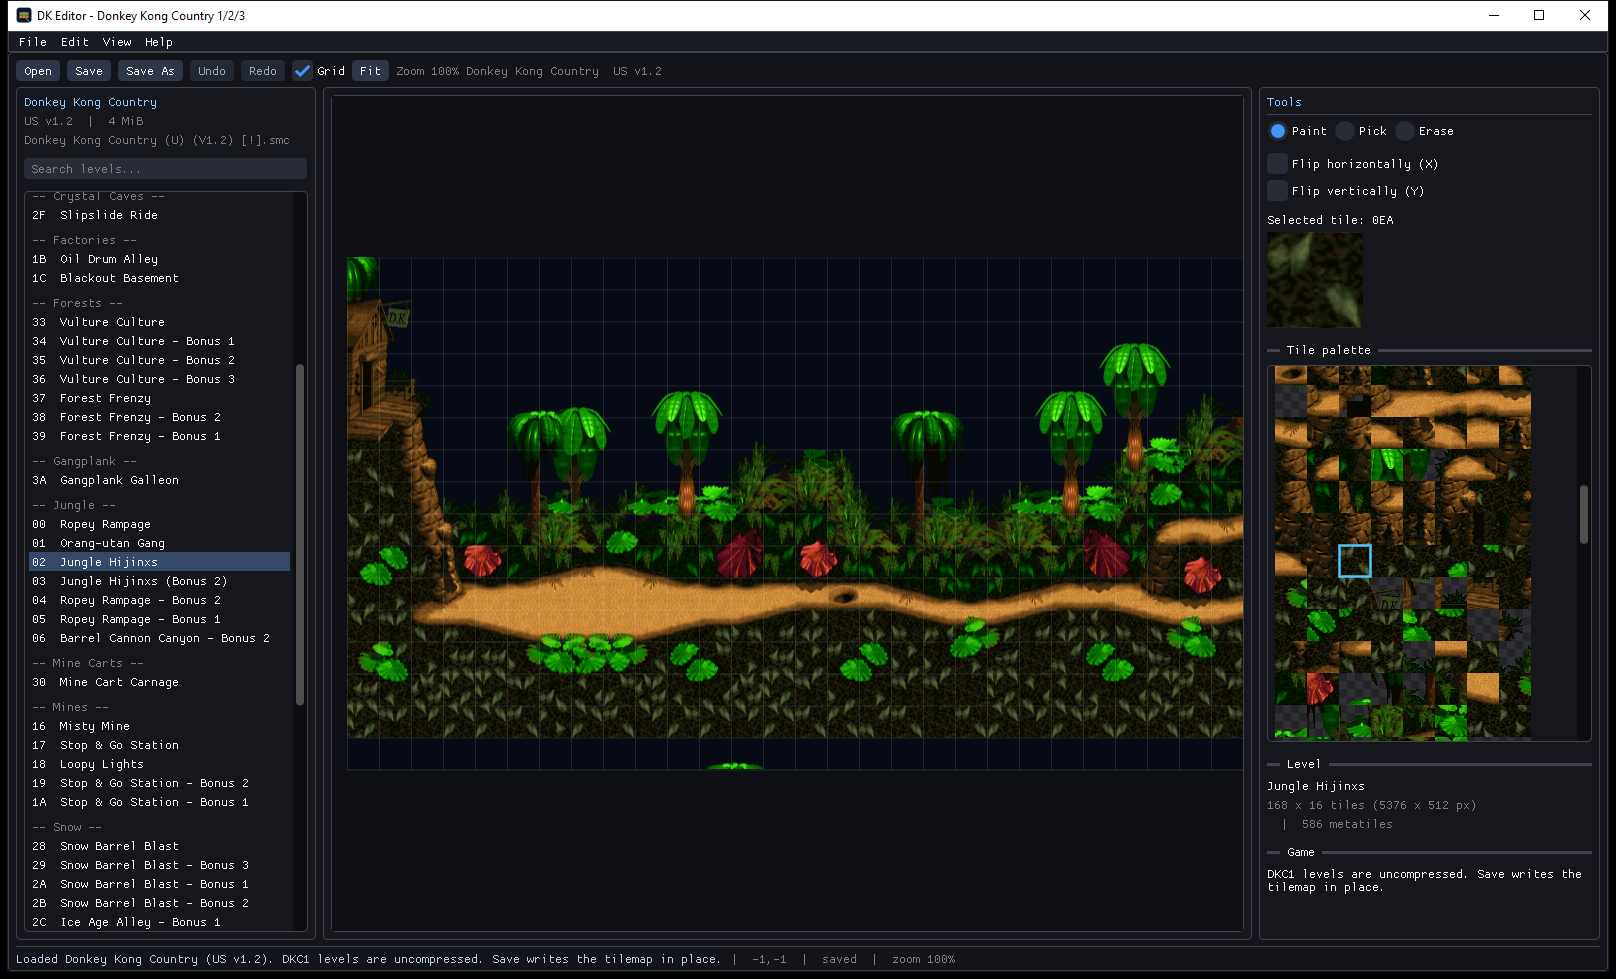
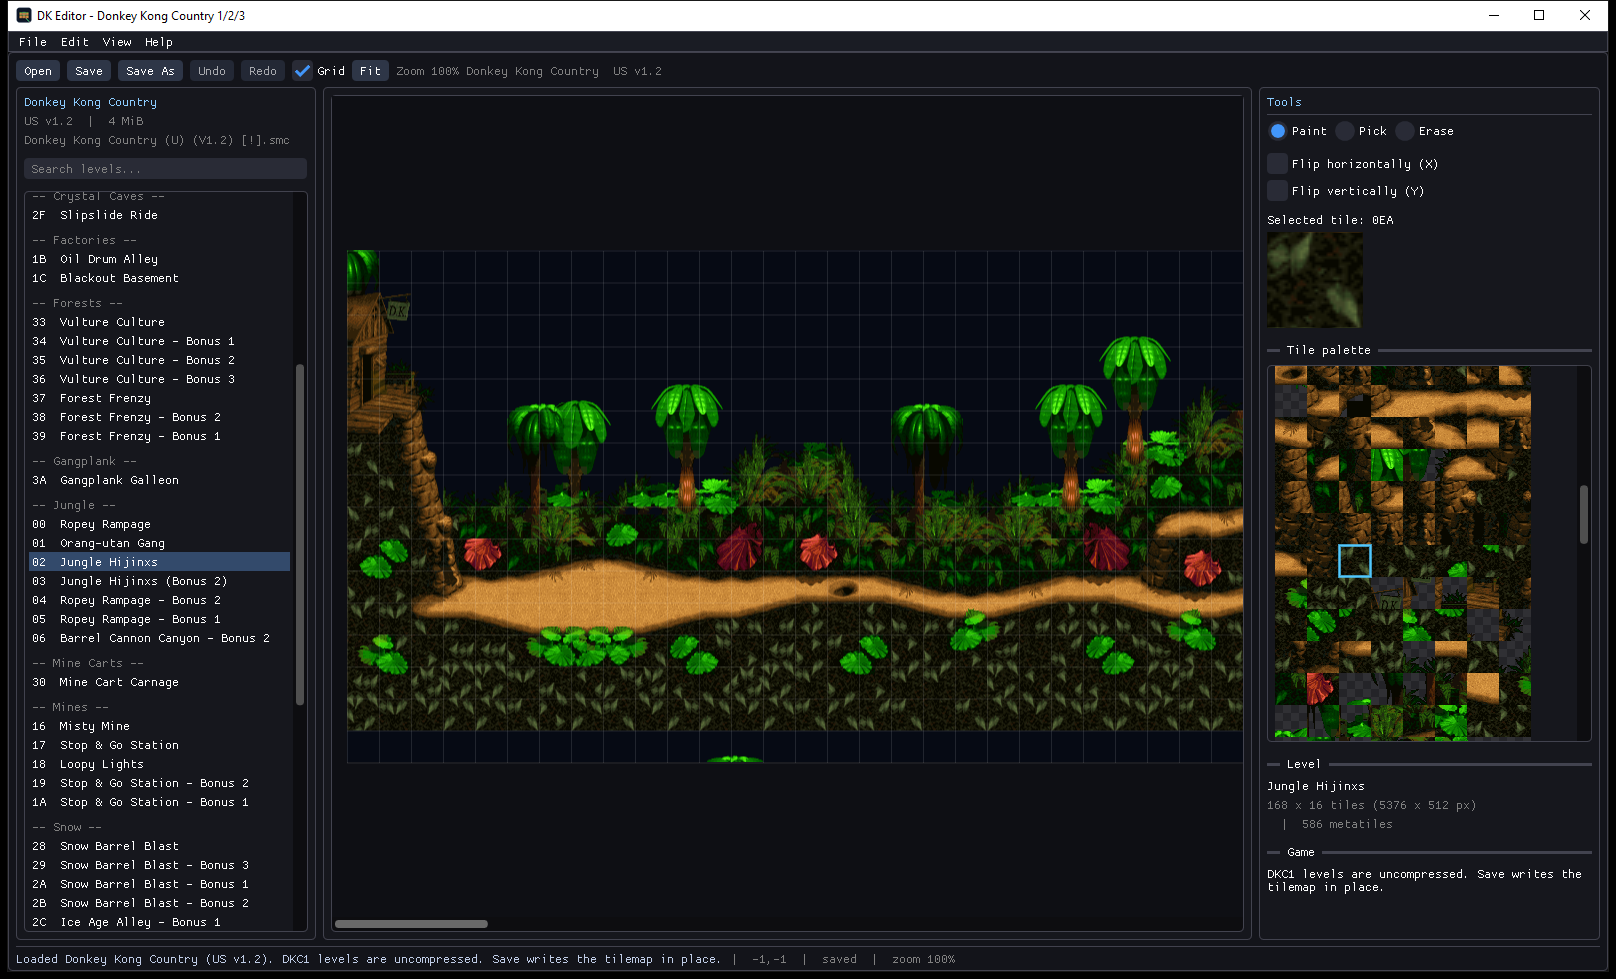
Add native canvas scrollbars
Adds native horizontal and vertical canvas scrolling for large levels, improves initial window sizing, and updates controls and documentation for scrollbar-based panning.

Changed region(s): [[0.2166, 0.2451, 0.7735, 0.7967], [0.2166, 0.9193, 0.3094, 0.9499], [0.5569, 0.3984, 0.5879, 0.4597]]

diff --git a/src/ui/EditorApp.cpp b/src/ui/EditorApp.cpp
@@ -149,9 +149,9 @@ bool EditorApp::loadLevel(int id) {
     paletteScrollFrames_ = 2;
     selectedMeta_ = 0;
     flipH_ = flipV_ = false;
-    panInitialized_ = false;
-    autoFit_ = true;
+    autoFitFrames_ = 2;
     fitWhole_ = false;
+    pendingScroll_ = false;
 
     std::string err;
     if (!game_->loadLevel(rom_, id, level_, err)) {
@@ -248,12 +248,14 @@ void EditorApp::fitView(const ImVec2& canvasSize) {
     const float pw = static_cast<float>(level_.pixelWidth());
     const float ph = static_cast<float>(level_.pixelHeight());
     if (pw <= 0 || ph <= 0) return;
-    float z = std::min(canvasSize.x / pw, canvasSize.y / ph);
+    float z = std::min((canvasSize.x - 32.0f) / pw, (canvasSize.y - 32.0f) / ph);
     z = std::clamp(z, 0.05f, 1.0f);
     zoom_ = z;
-    pan_.x = (canvasSize.x - pw * z) * 0.5f;
-    pan_.y = (canvasSize.y - ph * z) * 0.5f;
-    panInitialized_ = true;
+    const float cw = std::max(canvasSize.x, pw * z + 32.0f);
+    const float ch = std::max(canvasSize.y, ph * z + 32.0f);
+    pendingScrollTarget_.x = std::max(0.0f, (cw - canvasSize.x) * 0.5f);
+    pendingScrollTarget_.y = std::max(0.0f, (ch - canvasSize.y) * 0.5f);
+    pendingScroll_ = true;
 }
 
 void EditorApp::fitHeightView(const ImVec2& canvasSize) {
@@ -261,12 +263,16 @@ void EditorApp::fitHeightView(const ImVec2& canvasSize) {
     const float pw = static_cast<float>(level_.pixelWidth());
     const float ph = static_cast<float>(level_.pixelHeight());
     if (pw <= 0 || ph <= 0) return;
-    float z = std::min(1.0f, canvasSize.y / ph);
+    float z = std::min(1.0f, (canvasSize.y - 32.0f) / ph);
     z = std::clamp(z, 0.05f, 1.0f);
     zoom_ = z;
-    pan_.x = pw * z < canvasSize.x ? (canvasSize.x - pw * z) * 0.5f : 16.0f;
-    pan_.y = (canvasSize.y - ph * z) * 0.5f;
-    panInitialized_ = true;
+    const float cw = std::max(canvasSize.x, pw * z + 32.0f);
+    const float ch = std::max(canvasSize.y, ph * z + 32.0f);
+    pendingScrollTarget_.x = 0.0f;
+    pendingScrollTarget_.y = std::max(0.0f, (ch - canvasSize.y) * 0.5f);
+    pendingScroll_ = true;
+    (void)pw;
+    (void)cw;
 }
 
 void EditorApp::beginStroke() {
@@ -401,7 +407,7 @@ void EditorApp::drawMenuBar() {
     }
     if (ImGui::BeginMenu("View")) {
         ImGui::MenuItem("Tile grid", nullptr, &showGrid_);
-        if (ImGui::MenuItem("Fit level to window", "F")) { panInitialized_ = false; autoFit_ = true; fitWhole_ = true; }
+        if (ImGui::MenuItem("Fit level to window", "F")) { autoFitFrames_ = 2; fitWhole_ = true; }
         ImGui::EndMenu();
     }
     if (ImGui::BeginMenu("Help")) {
@@ -431,7 +437,7 @@ void EditorApp::drawToolbar() {
     ImGui::SameLine();
     ImGui::Checkbox("Grid", &showGrid_);
     ImGui::SameLine();
-    if (ImGui::Button("Fit")) { panInitialized_ = false; autoFit_ = true; fitWhole_ = true; }
+    if (ImGui::Button("Fit")) { autoFitFrames_ = 2; fitWhole_ = true; }
     ImGui::SameLine();
     ImGui::TextDisabled("Zoom %.0f%%", zoom_ * 100.0f);
     ImGui::SameLine();
@@ -509,102 +515,121 @@ void EditorApp::drawLevelPanel() {
 void EditorApp::drawCanvas() {
     ImGui::PushStyleVar(ImGuiStyleVar_WindowPadding, ImVec2(0, 0));
     ImGui::BeginChild("canvas", ImVec2(0, 0), ImGuiChildFlags_Borders,
-                      ImGuiWindowFlags_NoScrollbar | ImGuiWindowFlags_NoScrollWithMouse);
+                      ImGuiWindowFlags_HorizontalScrollbar |
+                      ImGuiWindowFlags_NoScrollWithMouse);
     ImGui::PopStyleVar();
 
-    ImVec2 origin = ImGui::GetCursorScreenPos();
-    ImVec2 size = ImGui::GetContentRegionAvail();
-    if (size.x < 64) size.x = 64;
-    if (size.y < 64) size.y = 64;
-
-    ImGui::InvisibleButton("##canvas-area", size,
-                           ImGuiButtonFlags_MouseButtonLeft |
-                           ImGuiButtonFlags_MouseButtonRight |
-                           ImGuiButtonFlags_MouseButtonMiddle);
-    const bool hovered = ImGui::IsItemHovered();
     ImGuiIO& io = ImGui::GetIO();
+    const ImVec2 windowPos = ImGui::GetWindowPos();
+    ImVec2 origin = ImGui::GetCursorScreenPos();
+    ImVec2 view = ImGui::GetContentRegionAvail();
+    if (view.x < 64) view.x = 64;
+    if (view.y < 64) view.y = 64;
+    const ImVec2 clip0(windowPos.x + 1.0f, windowPos.y + 1.0f);
+    const ImVec2 clip1(clip0.x + view.x, clip0.y + view.y);
+    ImDrawList* dl = ImGui::GetWindowDrawList();
 
     if (!level_.valid()) {
-        ImDrawList* dl = ImGui::GetWindowDrawList();
-        dl->AddRectFilled(origin, origin + size, IM_COL32(16, 17, 22, 255));
+        dl->PushClipRect(clip0, clip1, true);
+        dl->AddRectFilled(clip0, clip1, IM_COL32(16, 17, 22, 255));
         if (selectedLevel_ >= 0 && !level_.info.name.empty()) {
             const std::string title = level_.info.name;
             const std::string note = level_.info.note.empty()
                 ? "This level has no visual tilemap in this build."
                 : level_.info.note;
             const ImVec2 t1 = ImGui::CalcTextSize(title.c_str());
-            dl->AddText(origin + ImVec2((size.x - t1.x) * 0.5f, size.y * 0.35f),
+            dl->AddText(ImVec2(clip0.x + (view.x - t1.x) * 0.5f, clip0.y + view.y * 0.35f),
                         IM_COL32(255, 210, 90, 255), title.c_str());
-            const ImVec2 t2 = ImGui::CalcTextSize(note.c_str(), nullptr, false, size.x - 80);
+            const ImVec2 t2 = ImGui::CalcTextSize(note.c_str(), nullptr, false, view.x - 80);
             dl->AddText(nullptr, 0,
-                        origin + ImVec2((size.x - t2.x) * 0.5f, size.y * 0.35f + 28),
-                        IM_COL32(210, 214, 225, 255), note.c_str(), nullptr,
-                        size.x - 80);
+                        ImVec2(clip0.x + (view.x - t2.x) * 0.5f, clip0.y + view.y * 0.35f + 28),
+                        IM_COL32(210, 214, 225, 255), note.c_str(), nullptr, view.x - 80);
             const char* hint = "Use the Stage settings panel on the right.";
             const ImVec2 t3 = ImGui::CalcTextSize(hint);
-            dl->AddText(origin + ImVec2((size.x - t3.x) * 0.5f, size.y * 0.35f + 80),
+            dl->AddText(ImVec2(clip0.x + (view.x - t3.x) * 0.5f, clip0.y + view.y * 0.35f + 80),
                         IM_COL32(140, 150, 165, 255), hint);
         } else {
             const char* msg = levelError_.empty() ? "Select a level to begin."
                                                   : levelError_.c_str();
-            ImVec2 ts = ImGui::CalcTextSize(msg, nullptr, false, size.x - 40);
+            const ImVec2 ts = ImGui::CalcTextSize(msg, nullptr, false, view.x - 40);
             dl->AddText(nullptr, 0,
-                origin + ImVec2((size.x - ts.x) * 0.5f, (size.y - ts.y) * 0.5f),
-                IM_COL32(220, 220, 230, 255), msg);
+                        ImVec2(clip0.x + (view.x - ts.x) * 0.5f,
+                               clip0.y + (view.y - ts.y) * 0.5f),
+                        IM_COL32(220, 220, 230, 255), msg);
         }
+        dl->PopClipRect();
         ImGui::EndChild();
         return;
     }
 
-    if (autoFit_ || !panInitialized_) {
-        if (fitWhole_) fitView(size);
-        else fitHeightView(size);
+    if (autoFitFrames_ > 0) {
+        if (fitWhole_) fitView(view);
+        else fitHeightView(view);
+        --autoFitFrames_;
     }
 
-    // Mouse wheel zoom around the cursor.
-    if (hovered && io.MouseWheel != 0.0f) {
-        autoFit_ = false;
-        const ImVec2 m = io.MousePos;
+    const float margin = 32.0f;
+    const float imgW = level_.pixelWidth() * zoom_;
+    const float imgH = level_.pixelHeight() * zoom_;
+    const ImVec2 content(std::max(view.x, imgW + margin), std::max(view.y, imgH + margin));
+
+    ImGui::InvisibleButton("##canvas-area", content,
+                           ImGuiButtonFlags_MouseButtonLeft |
+                           ImGuiButtonFlags_MouseButtonRight |
+                           ImGuiButtonFlags_MouseButtonMiddle);
+    const bool itemHovered = ImGui::IsItemHovered();
+    const bool inside = itemHovered &&
+                        io.MousePos.x >= clip0.x && io.MousePos.y >= clip0.y &&
+                        io.MousePos.x < clip1.x && io.MousePos.y < clip1.y;
+
+    const ImVec2 itemMin = ImGui::GetItemRectMin();
+    const ImVec2 imagePos(itemMin.x + (content.x - imgW) * 0.5f,
+                          itemMin.y + (content.y - imgH) * 0.5f);
+    const ImVec2 imageEnd(imagePos.x + imgW, imagePos.y + imgH);
+
+    // Zoom around the mouse.  The scroll target keeps the world point under the
+    // cursor when the content is larger than the viewport.
+    if (inside && io.MouseWheel != 0.0f) {
+        autoFitFrames_ = 0;
         const float oldZoom = zoom_;
         float newZoom = zoom_ * std::pow(1.18f, io.MouseWheel);
         newZoom = std::clamp(newZoom, 0.05f, 4.0f);
         if (newZoom != oldZoom) {
-            const ImVec2 world((m.x - origin.x - pan_.x) / oldZoom,
-                               (m.y - origin.y - pan_.y) / oldZoom);
+            const ImVec2 world((io.MousePos.x - imagePos.x) / oldZoom,
+                               (io.MousePos.y - imagePos.y) / oldZoom);
             zoom_ = newZoom;
-            pan_.x = m.x - origin.x - world.x * zoom_;
-            pan_.y = m.y - origin.y - world.y * zoom_;
+            pendingScrollTarget_.x = ImGui::GetScrollX() + world.x * (newZoom - oldZoom);
+            pendingScrollTarget_.y = ImGui::GetScrollY() + world.y * (newZoom - oldZoom);
+            pendingScroll_ = true;
         }
     }
 
-    // Panning.
+    // Middle-drag or Space+left-drag pans by moving the child scroll.
     const bool space = ImGui::IsKeyDown(ImGuiKey_Space);
     if ((ImGui::IsMouseDragging(ImGuiMouseButton_Middle) ||
          (space && ImGui::IsMouseDragging(ImGuiMouseButton_Left))) &&
-        (hovered || ImGui::IsItemActive())) {
-        autoFit_ = false;
-        pan_.x += io.MouseDelta.x;
-        pan_.y += io.MouseDelta.y;
+        (inside || ImGui::IsItemActive())) {
+        autoFitFrames_ = 0;
+        pendingScrollTarget_.x = ImGui::GetScrollX() - io.MouseDelta.x;
+        pendingScrollTarget_.y = ImGui::GetScrollY() - io.MouseDelta.y;
+        pendingScroll_ = true;
     }
 
-    // Clamp so the image cannot be lost entirely.
-    const ImVec2 imgSize(level_.pixelWidth() * zoom_, level_.pixelHeight() * zoom_);
-    pan_.x = std::clamp(pan_.x, -imgSize.x + 80.0f, size.x - 80.0f);
-    pan_.y = std::clamp(pan_.y, -imgSize.y + 80.0f, size.y - 80.0f);
+    if (pendingScroll_) {
+        ImGui::SetScrollX(pendingScrollTarget_.x);
+        ImGui::SetScrollY(pendingScrollTarget_.y);
+        pendingScroll_ = false;
+    }
 
-    ImDrawList* dl = ImGui::GetWindowDrawList();
-    dl->PushClipRect(origin, origin + size, true);
-    dl->AddRectFilled(origin, origin + size, IM_COL32(14, 15, 20, 255));
-
-    ImVec2 imagePos = origin + pan_;
-    ImVec2 imageEnd = imagePos + imgSize;
+    dl->PushClipRect(clip0, clip1, true);
+    dl->AddRectFilled(clip0, clip1, IM_COL32(14, 15, 20, 255));
     if (levelTex_.valid()) {
         dl->AddImage(levelTex_.imguiId(), imagePos, imageEnd);
     }
 
     // Cursor -> tile.
     int tx = -1, ty = -1;
-    if (hovered && zoom_ > 0.0f) {
+    if (inside && zoom_ > 0.0f) {
         const float px = (io.MousePos.x - imagePos.x) / zoom_;
         const float py = (io.MousePos.y - imagePos.y) / zoom_;
         if (px >= 0 && py >= 0 && px < level_.pixelWidth() && py < level_.pixelHeight()) {
@@ -637,7 +662,7 @@ void EditorApp::drawCanvas() {
 
     // Painting.
     const bool canEdit = level_.info.visual && !space;
-    if (canEdit && tx >= 0 && ty >= 0) {
+    if (canEdit && inside && tx >= 0 && ty >= 0) {
         if (ImGui::IsMouseClicked(ImGuiMouseButton_Left)) {
             if (io.KeyAlt || tool_ == Tool::Picker) {
                 pickAt(tx, ty);
@@ -645,9 +670,6 @@ void EditorApp::drawCanvas() {
                 beginStroke();
                 if (tool_ == Tool::Erase) eraseAt(tx, ty);
                 else paintAt(tx, ty);
-                if (strokeActive_) {
-                    // Keep the stroke alive while the button is held.
-                }
             }
         }
         if (ImGui::IsMouseClicked(ImGuiMouseButton_Right)) {
@@ -663,22 +685,14 @@ void EditorApp::drawCanvas() {
             eraseAt(tx, ty);
         }
     }
-    if (strokeActive_ && !ImGui::IsMouseDown(ImGuiMouseButton_Left) &&
+    if (strokeActive_ && (!ImGui::IsMouseDown(ImGuiMouseButton_Left) ||
+                         !inside) &&
         !ImGui::IsMouseDown(ImGuiMouseButton_Right)) {
         endStroke();
     }
-
-    // Overlay for DKC3 / non-visual levels.
-    if (!level_.info.visual) {
-        dl->AddRectFilled(ImVec2(origin.x + 20, origin.y + 20),
-                          ImVec2(origin.x + size.x - 20, origin.y + 92),
-                          IM_COL32(20, 22, 30, 230), 6.0f);
-        dl->AddText(ImVec2(origin.x + 34, origin.y + 32),
-                    IM_COL32(255, 210, 90, 255),
-                    "DKC3 visual editing is not in this build.");
-        dl->AddText(ImVec2(origin.x + 34, origin.y + 54),
-                    IM_COL32(210, 214, 225, 255),
-                    "Use the stage settings panel on the right. Saving is supported.");
+    if (strokeActive_ && !ImGui::IsMouseDown(ImGuiMouseButton_Left) &&
+        !ImGui::IsMouseDown(ImGuiMouseButton_Right)) {
+        endStroke();
     }
 
     dl->PopClipRect();
@@ -848,7 +862,7 @@ void EditorApp::draw() {
             else undo();
         }
         if (io.KeyCtrl && ImGui::IsKeyPressed(ImGuiKey_Y)) redo();
-        if (ImGui::IsKeyPressed(ImGuiKey_F)) { panInitialized_ = false; autoFit_ = true; fitWhole_ = true; }
+        if (ImGui::IsKeyPressed(ImGuiKey_F)) { autoFitFrames_ = 2; fitWhole_ = true; }
     }
 
     drawMenuBar();

diff --git a/src/main.cpp b/src/main.cpp
@@ -11,6 +11,7 @@
 
 #include <memory>
 #include <string>
+#include <algorithm>
 
 #include <shellapi.h>
 
@@ -131,9 +132,16 @@ int APIENTRY wWinMain(HINSTANCE hInstance, HINSTANCE, LPWSTR, int) {
     const int height = 940;
     RECT rect{0, 0, width, height};
     AdjustWindowRect(&rect, WS_OVERLAPPEDWINDOW, FALSE);
+
+    RECT work{};
+    SystemParametersInfoW(SPI_GETWORKAREA, 0, &work, 0);
+    const int winW = std::min(rect.right - rect.left, work.right - work.left - 24);
+    const int winH = std::min(rect.bottom - rect.top, work.bottom - work.top - 24);
+    const int winX = work.left + ((work.right - work.left) - winW) / 2;
+    const int winY = work.top + ((work.bottom - work.top) - winH) / 2;
+
     g_hwnd = CreateWindowW(wc.lpszClassName, L"DK Editor - Donkey Kong Country 1/2/3",
-                           WS_OVERLAPPEDWINDOW, CW_USEDEFAULT, CW_USEDEFAULT,
-                           rect.right - rect.left, rect.bottom - rect.top, nullptr,
+                           WS_OVERLAPPEDWINDOW, winX, winY, winW, winH, nullptr,
                            nullptr, hInstance, nullptr);
     if (!g_hwnd) return 1;
     if (appIcon) SendMessageW(g_hwnd, WM_SETICON, ICON_BIG, reinterpret_cast<LPARAM>(appIcon));

diff --git a/src/ui/EditorApp.h b/src/ui/EditorApp.h
@@ -84,10 +84,10 @@ private:
     bool showGrid_ = true;
     bool showCollision_ = false; // reserved
     float zoom_ = 0.5f;
-    ImVec2 pan_{-1, -1};
-    bool panInitialized_ = false;
-    bool autoFit_ = true;
+    int autoFitFrames_ = 2;
     bool fitWhole_ = false;
+    bool pendingScroll_ = false;
+    ImVec2 pendingScrollTarget_{0, 0};
     bool dirty_ = false;
     int scrollFrames_ = 0;
     int paletteScrollFrames_ = 0;

diff --git a/docs/USAGE.md b/docs/USAGE.md
@@ -38,12 +38,16 @@ the reason.
 | Action | Input |
 | --- | --- |
 | Zoom in/out at cursor | Mouse wheel |
+| Scroll horizontally/vertically | Bottom/right scrollbar of the canvas |
 | Pan | Middle-drag, or Space + left-drag |
 | Fit the whole level | `F` or **Fit** |
 | Toggle the 32x32 grid | **Grid** checkbox |
 | Hover a tile | Move the pointer; the status line shows tile X/Y and value |
 
-The zoom range is 5% to 400%.
+The zoom range is 5% to 400%. When a level is wider or taller than the canvas,
+native scrollbars appear at the bottom and right edges; you can drag them to move
+through the level without changing the zoom. The default view is 100% (or
+height-fit for very tall levels). **Fit** shows the entire level.
 
 ## Selecting a tile
 

diff --git a/docs/ARCHITECTURE.md b/docs/ARCHITECTURE.md
@@ -119,7 +119,9 @@ DKC1 needs no extra context because its level offset is fixed metadata.
 ### `src/ui/EditorApp.*`
 
 - Owns the main window layout: level list, canvas and tool panel.
-- `drawCanvas()` maps mouse coordinates through zoom/pan to tile coordinates.
+- `drawCanvas()` maps mouse coordinates through zoom and the child-window scroll
+  to tile coordinates. The canvas uses native ImGui scrollbars, so wide levels can
+  be panned without changing the zoom.
 - Painting rebuilds only the affected 32x32 pixels and uploads that region.
 - The tile palette is a single RGBA atlas built from the current level's
   metatiles and palette.

diff --git a/TASKS.md b/TASKS.md
@@ -23,6 +23,7 @@ with the code.
 - [x] DKC2 double-save without reload after relocation.
 - [x] DKC3 level catalogue (132 entries) and stage-settings editing.
 - [x] Level canvas with fit, zoom, pan, grid, hover and painting.
+- [x] Native horizontal and vertical canvas scrollbars (no need to zoom out).
 - [x] Tile palette with real metatile thumbnails and selection.
 - [x] Paint, pick and erase tools, horizontal/vertical flips.
 - [x] Undo/redo snapshots per level.

diff --git a/README.md b/README.md
@@ -89,7 +89,7 @@ repository.
 | Paint selected tile | Left click / drag |
 | Erase tile | Right click / drag, or the Erase tool |
 | Pick tile under cursor | Alt + left click, or the Pick tool |
-| Pan | Middle-drag, or Space + left-drag |
+| Pan | Middle-drag, Space + left-drag, or the canvas scrollbars |
 | Zoom | Mouse wheel |
 | Fit level | `F` or the **Fit** button |
 | Toggle grid | **Grid** checkbox |
